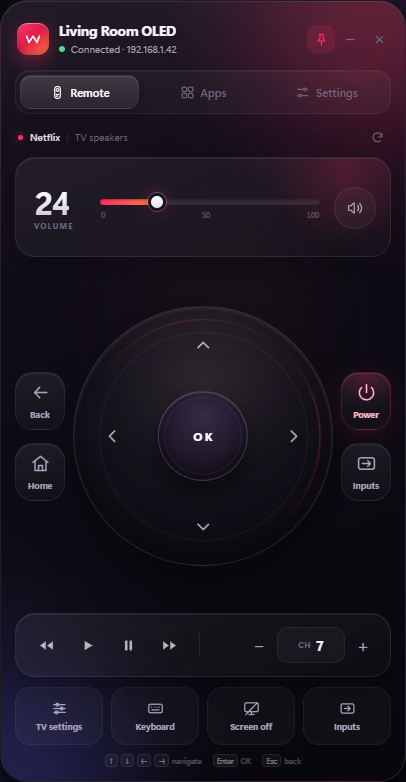
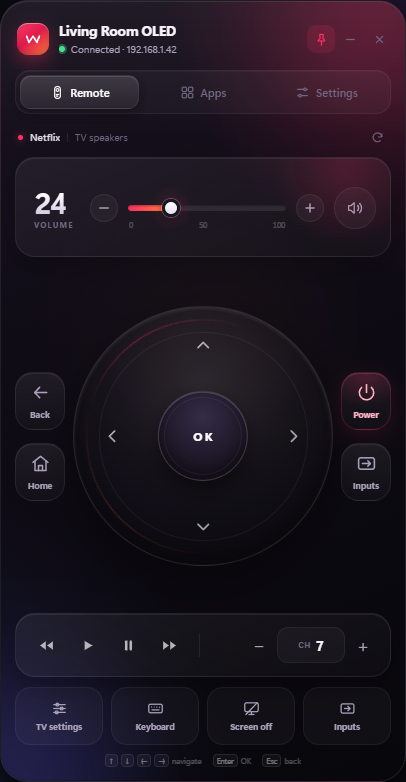
Release 1.1.0
- Keep the volume step buttons but rebalance the volume card so the slider
  stays usable at the default width.
- Accept volumeAdjustable:false (the field most webOS versions send) in
  addition to adjustVolume:false when detecting an external amp.
- Document the AVR readout, the new buttons, and the 1.1.0 changes.

diff --git a/src/renderer/styles.css b/src/renderer/styles.css
@@ -292,7 +292,7 @@ svg.fill, svg.fill path, svg.fill rect { fill: currentColor; stroke: none; }
 /* ============================================================ volume */
 .volume-card {
   flex: none; height: 100px; margin-bottom: 12px; padding: 13px 14px 11px 18px;
-  display: flex; align-items: center; gap: 14px; overflow: hidden;
+  display: flex; align-items: center; gap: 10px; overflow: hidden;
 }
 
 .volume-card::after {
@@ -302,12 +302,12 @@ svg.fill, svg.fill path, svg.fill rect { fill: currentColor; stroke: none; }
 }
 
 .vol-readout {
-  flex: none; width: 52px; display: flex; flex-direction: column;
+  flex: none; width: 46px; display: flex; flex-direction: column;
   align-items: flex-start; justify-content: center;
 }
 
 .vol-num {
-  font-size: 33px; line-height: 1; font-weight: 700; letter-spacing: -1.6px;
+  font-size: 30px; line-height: 1; font-weight: 700; letter-spacing: -1.4px;
   font-variant-numeric: tabular-nums;
   background: linear-gradient(180deg, #ffffff 18%, #cfc6dd 100%);
   -webkit-background-clip: text; background-clip: text; color: transparent;
@@ -317,7 +317,7 @@ svg.fill, svg.fill path, svg.fill rect { fill: currentColor; stroke: none; }
 .vol-num.muted { opacity: 0.4; }
 
 /* AVR owns the volume: show "AVR", grey out the slider; +/- and mute still work. */
-.is-avr .vol-num { font-size: 21px; letter-spacing: -0.4px; }
+.is-avr .vol-num { font-size: 19px; letter-spacing: -0.3px; }
 .is-avr .vol-slider { opacity: 0.35; filter: grayscale(1); cursor: default; }
 .is-avr .vol-slider::-webkit-slider-thumb { box-shadow: none; transform: none; }
 .is-avr .vol-labels { opacity: 0.35; }
@@ -365,7 +365,7 @@ svg.fill, svg.fill path, svg.fill rect { fill: currentColor; stroke: none; }
 }
 
 .round-btn svg { width: 18px; height: 18px; }
-.vol-step { width: 30px; height: 30px; }
+.vol-step { width: 28px; height: 28px; }
 .vol-step svg { width: 16px; height: 16px; stroke-width: 2.2; }
 .round-btn:hover { background: rgba(255, 255, 255, 0.08); color: #fff; }
 .round-btn:active { transform: scale(0.9); }

diff --git a/src/main.js b/src/main.js
@@ -163,10 +163,11 @@ function applyVolume(payload) {
     tvState.soundOutput = payload.soundOutput;
     changed = true;
   }
-  // Newer webOS nests the numbers in volumeStatus; adjustVolume=false / a negative volume
-  // means the TV hands volume off to an external amp.
+  // Newer webOS nests the numbers in volumeStatus. volumeAdjustable=false (older sets call it
+  // adjustVolume) or a negative volume means the TV hands volume off to an external amp.
   const status = payload.volumeStatus || payload;
-  if (status.adjustVolume === false || (typeof status.volume === 'number' && status.volume < 0)) {
+  const fixedByFlag = status.volumeAdjustable === false || status.adjustVolume === false;
+  if (fixedByFlag || (typeof status.volume === 'number' && status.volume < 0)) {
     if (!tvState.volumeFixed) { tvState.volumeFixed = true; changed = true; }
   } else if (typeof status.volume === 'number' && tvState.volumeFixed) {
     tvState.volumeFixed = false;

diff --git a/README.md b/README.md
@@ -9,7 +9,7 @@ It talks to the TV directly over your Wi-Fi — no cloud, no account, no phone a
 
 ## What it can do
 
-- **Volume** — slider with live feedback, mute, volume up/down
+- **Volume** - slider with live feedback, `-` / `+` step buttons with hold-to-repeat, mute, volume up/down. When a soundbar or AVR owns the volume the slider greys out and reads **AVR**; the step buttons and mute still work.
 - **Channels** — channel up/down, on-screen keypad for direct channel entry
 - **D-pad** — up / down / left / right / OK, with press-and-hold repeat
 - **Magic Remote pointer** — drag the ring around the D-pad to move the cursor, scroll to browse
@@ -107,6 +107,7 @@ Wake sends magic packets to ports 9 and 7 on the broadcast address of your subne
 | App list is empty | The TV did not answer `listLaunchPoints`; press the refresh button on the Apps tab. |
 | Every button returns `401 insufficient permissions` | Update to the current build and reconnect. webOS 26 (firmware 43.x+) ignores the old signed registration manifest, so the widget now registers with an unsigned manifest that requests the permissions explicitly. Run `npm run diagnose -- <tv-ip> <client-key>` to confirm they are granted. |
 | Some buttons do nothing | Not every webOS version exposes every command (e.g. screen-off on older models). The rest of the remote still works. |
+| Volume slider is greyed out and reads **AVR** | Your TV is sending audio to a soundbar, AVR, or optical output, so it has no absolute volume to set. Use the `-` / `+` buttons, mute, or the amp's own remote. |
 | Widget is too large/small | It scales itself to your screen height. For unusual DPI setups, adjust `BASE_HEIGHT` in `src/main.js`. |
 | It seems to come back after I close it | With **Close to tray** on, the **×** button only hides the window. Use **Settings → This widget → Quit widget** or the tray menu's **Quit**. If it still starts with Windows, turn off **Launch at login**. |
 

diff --git a/CHANGELOG.md b/CHANGELOG.md
@@ -4,6 +4,32 @@ All notable changes to this project are documented in this file.
 The format follows [Keep a Changelog](https://keepachangelog.com/en/1.1.0/), and the project uses
 [semantic versioning](https://semver.org/).
 
+## [1.1.0]
+
+Thanks to [@paokkerkir](https://github.com/paokkerkir) for [#2](https://github.com/kheddaoui1/webos-control-center/pull/2),
+which contributed the volume step buttons, the AVR readout, and the wake fix.
+
+### Added
+
+- **Volume `−` / `+` buttons** next to the slider, with hold-to-repeat. They send the TV's own
+  `VOLUMEUP` / `VOLUMEDOWN` keys, so they also work when a soundbar or AVR owns the volume.
+- **AVR readout** — when the TV hands volume to an external amp (ARC, optical, soundbar), the number
+  is replaced by `AVR` and the slider is greyed out; mute and `−` / `+` stay usable.
+
+### Fixed
+
+- Subscriptions now send `subscribe: true`. Without it webOS answered once and never pushed
+  `changed` events, so volume, channel, foreground app, and sound output only refreshed when the
+  window was reopened.
+- The Power button now sends Wake-on-LAN when the TV was off at launch. Previously the retry loop
+  left the status at `connecting`, so the button only said "Trying to reach your TV…".
+- AVR detection also accepts `volumeAdjustable: false`, the field name most webOS versions use.
+
+### Changed
+
+- The fallback poll runs every 5 s (was 12 s) and also refreshes the sound output, for TVs that
+  never push subscription updates.
+
 ## [1.0.1]
 
 ### Fixed
